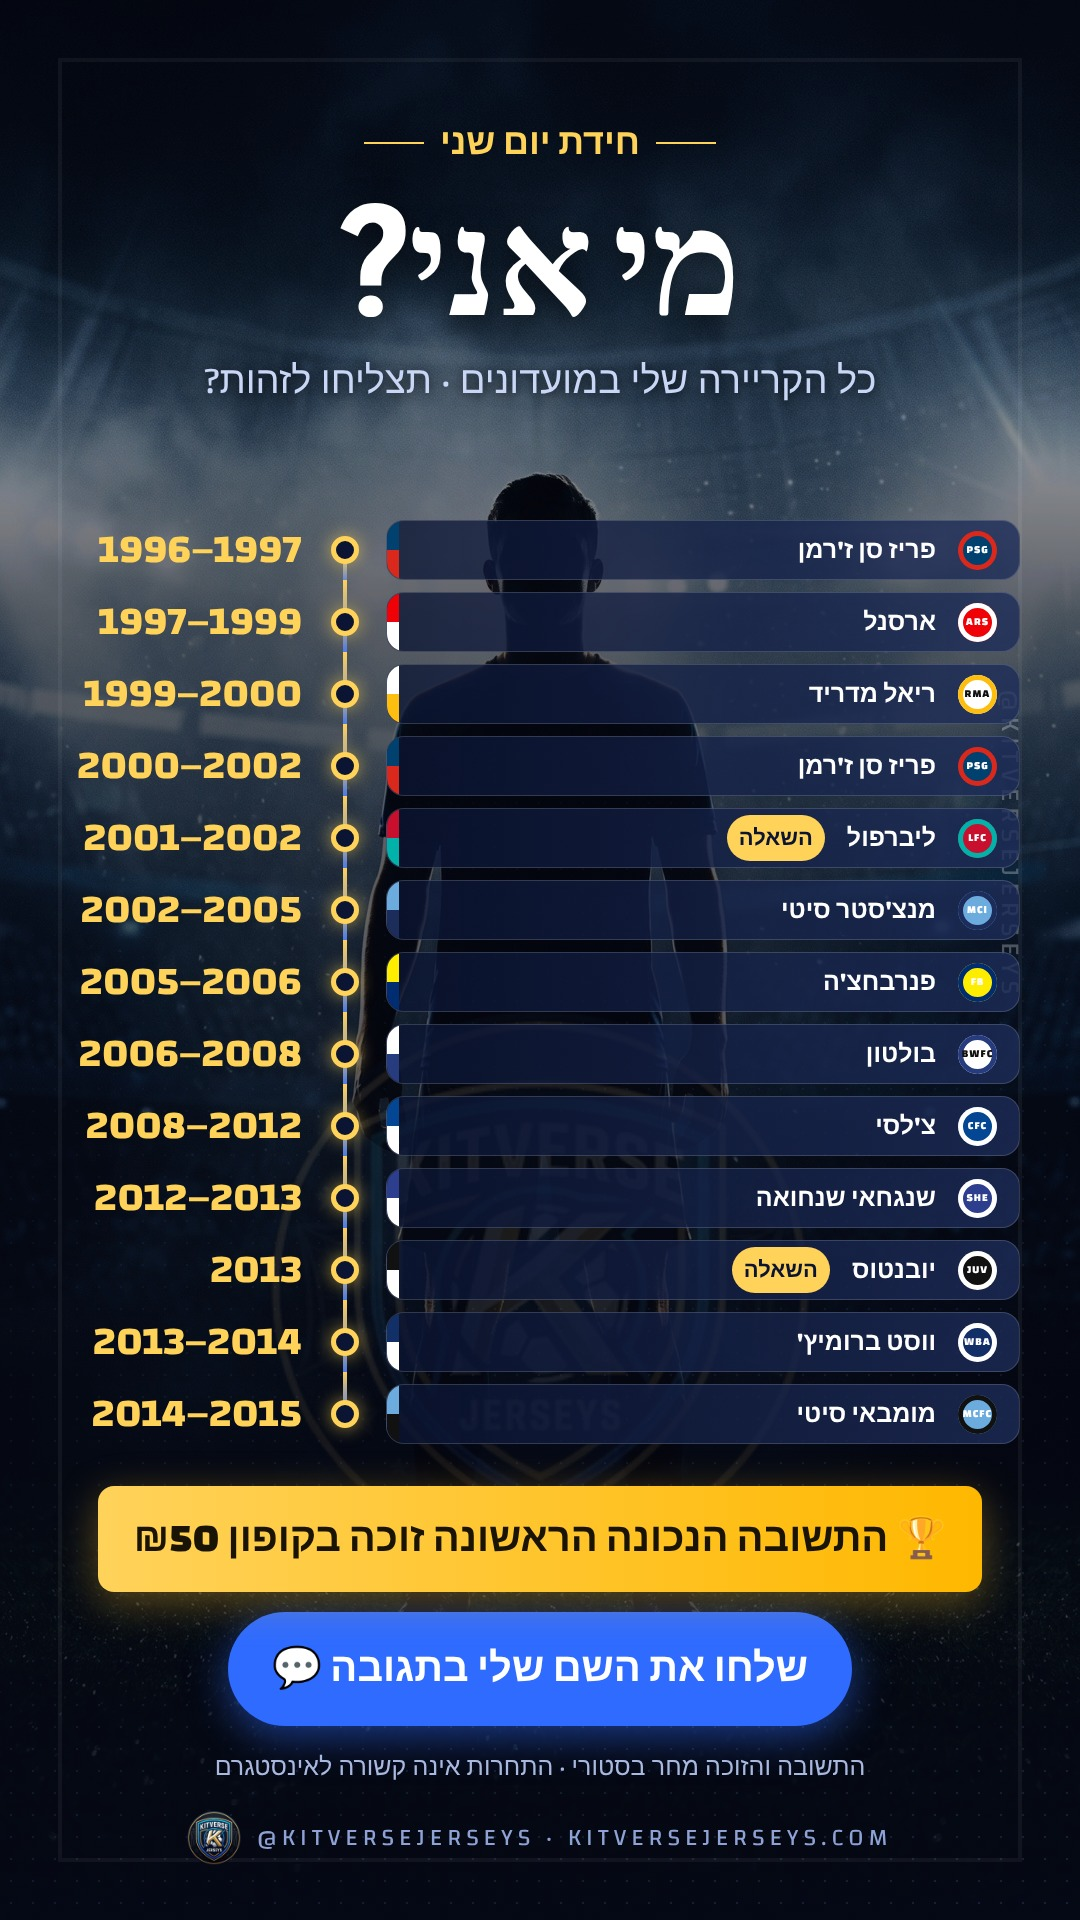
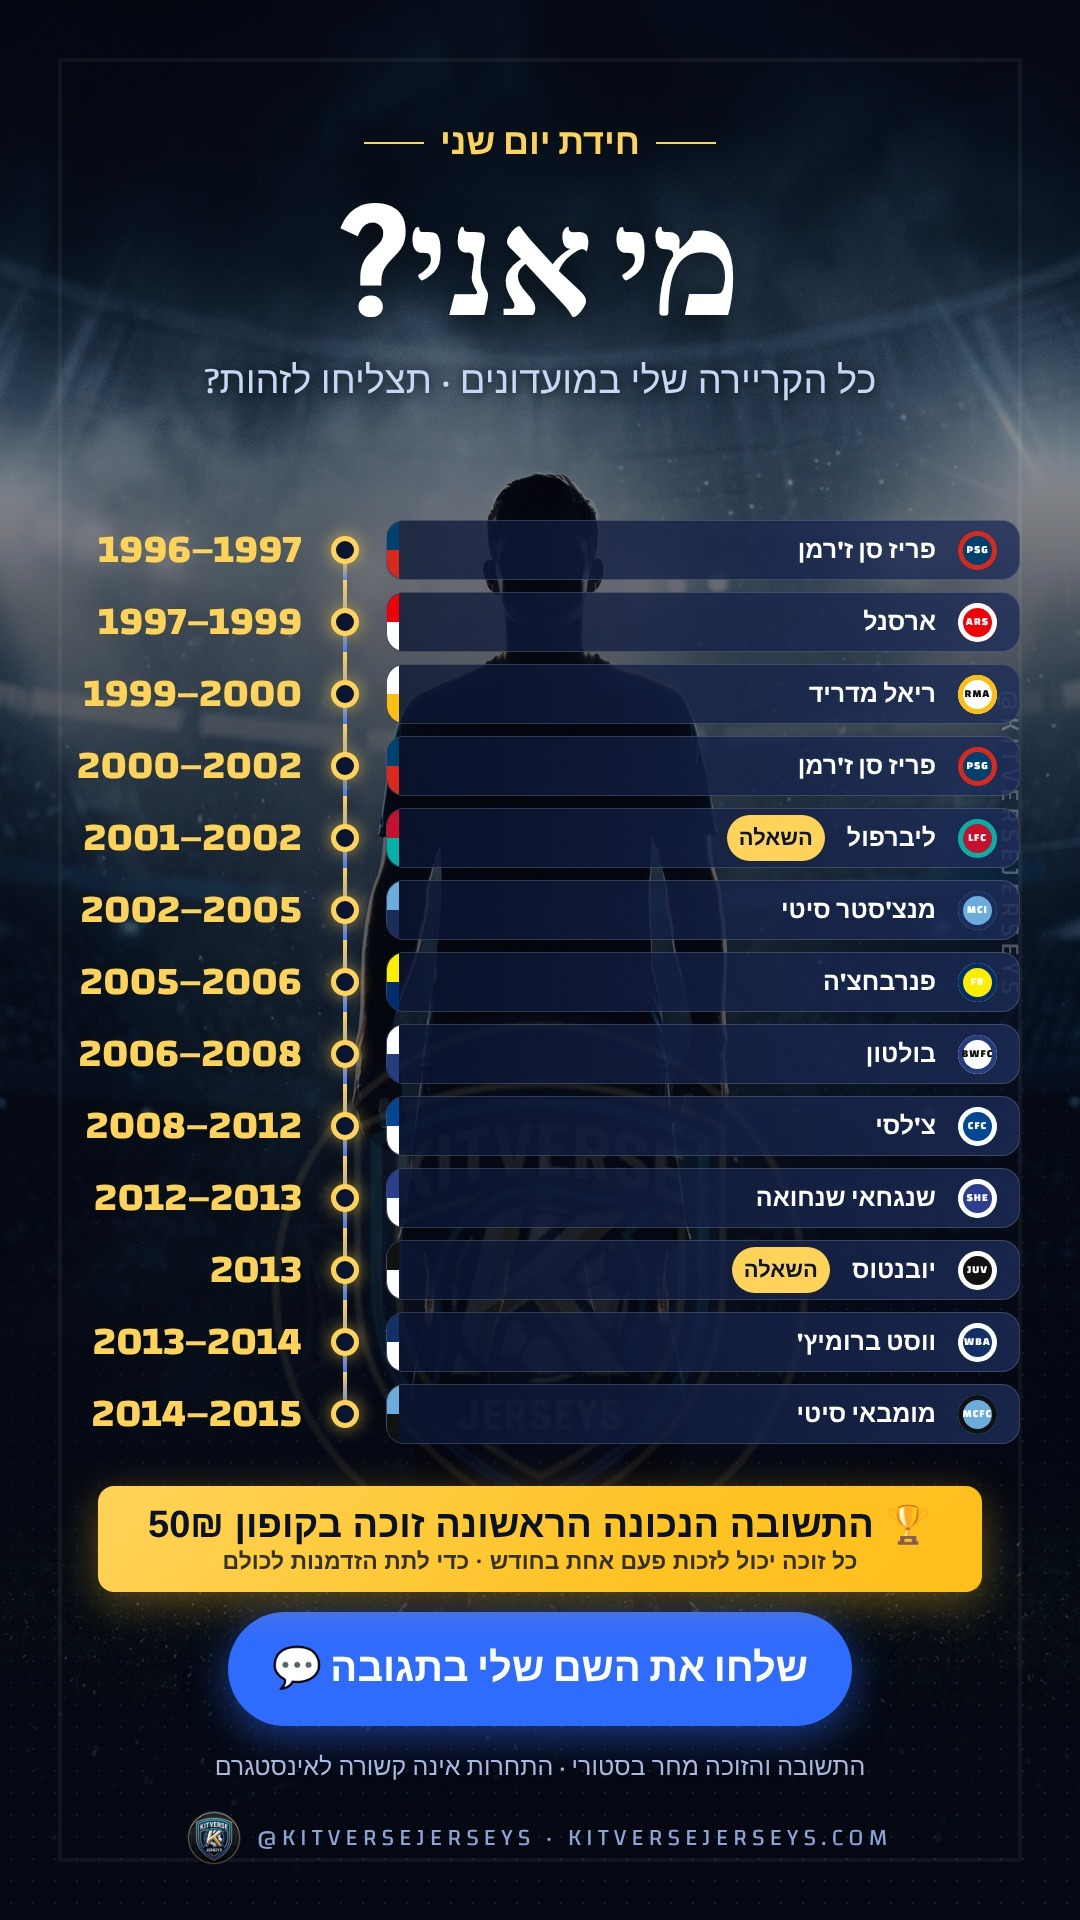
Monday riddle: 'each winner can win once a month' line on every riddle image (AR + HE, 23 Nov - 21 Dec); tonight's riddle (Crespo) posts now instead of 19:00 (owner 2026-11-23)
Claude-Session: https://claude.ai/code/session_01Du4fds4LijxGgBnY1Wn1TW

Changed region(s): [[0.1222, 0.75, 0.9167, 0.8438]]

diff --git a/docs/instagram.md b/docs/instagram.md
@@ -7,7 +7,7 @@ DM bot flow, Inngest jobs, Instagram autopost / riddle / polls, messaging rules.
   - one turn per chat burst (5s debounce, shows "seen" + typing while it works, concurrency 1 per chat);
   - 3h follow-up nudge, approval decided/reminder, spend alert;
   - IG post sync every 15 min.
-  - Instagram autopost every 5 min (owner request 2026-11-13): publishes the posts/stories in `src/data/ig-schedule.json` (images in `public/campaign/daily/`, Arabic captions) through the Content Publishing API - `src/lib/channels/ig-publish.ts`; once per item via the `bot_settings` row `ig_post:<id>` (failed = owner alert, no auto-retry; delete the row to retry), items >3h late are skipped, pause with `bot_settings` `ig_autopost` = {"paused":true}. Needs the token's `instagram_business_content_publish` permission. After deploying a schedule change, re-sync Inngest from the live domain (`PUT https://www.kitversejerseys.com/api/inngest`, e.g. `fetch` in a browser on the site) - on 2026-11-14 the cron kept running an older deploy's schedule until that sync ("modified": true). Poll stories (owner request 2026-11-14): Instagram's API can't add stickers (polls) to a story, so a schedule item with `poll` {question, options} (the VS stories) is NOT auto-posted - at its time the owner gets a push alert to admin **Instagram -> Poll stories** (`/admin/stories`): save picture, copy question/answers, "Open Instagram", then "I posted it"/"Skip" (`markPollStory`, row status `owner_poll` -> `posted_by_owner`/`skipped`). The schedule (and polls) is generated by the campaign scripts (`daily.py`, scratch), not hand-edited. **Owner decision later the same day: "just post them as is"** - no schedule item has `poll` now (VS stories auto-post, their line reads "reply to the story 💬" instead of "vote 👇"), and the Poll stories nav entry is removed; the page/code stays dormant for future use (add `poll` to an item to bring it back). **Monday riddle** (owner request 2026-11-14): every Monday 19:00 a "مين أنا؟" story (a famous player's full career as a timeline; club colours + initials, never real crests - owner asked for real crests, declined as trademark; background = anonymous generated silhouette, never a real player's photo; KitVerse badge watermark), answer story Tuesday 19:00; first one posted Sat 14 Nov 18:15 (Zlatan, answer Sun 15 Nov), then Mondays 16 Nov - 21 Dec, made harder on owner request ("too easy") - no position hint, less obvious careers: Owen, Crespo, Seedorf, Forlán, Anelka, Eto'o (careers from Wikipedia 2026-11-14); codes are used in date order (RIDDLE1611 for the 14 Nov riddle, etc.), RIDDLE2812 spare. Prize: first correct DM reply wins a single-use ₪50 code (min order ₪100, 31 days, not combinable) pre-created per Monday as `RIDDLE<DDMM>-xxxx` in discount_codes - the owner picks the winner in the Instagram app and DMs the code. Single-use codes (max_uses set) never become the site banner (`export-store-catalog.ts`). Images `public/campaign/riddle/` (AR auto-posted, HE for the owner); generator `riddle.py` (scratch).
+  - Instagram autopost every 5 min (owner request 2026-11-13): publishes the posts/stories in `src/data/ig-schedule.json` (images in `public/campaign/daily/`, Arabic captions) through the Content Publishing API - `src/lib/channels/ig-publish.ts`; once per item via the `bot_settings` row `ig_post:<id>` (failed = owner alert, no auto-retry; delete the row to retry), items >3h late are skipped, pause with `bot_settings` `ig_autopost` = {"paused":true}. Needs the token's `instagram_business_content_publish` permission. After deploying a schedule change, re-sync Inngest from the live domain (`PUT https://www.kitversejerseys.com/api/inngest`, e.g. `fetch` in a browser on the site) - on 2026-11-14 the cron kept running an older deploy's schedule until that sync ("modified": true). Poll stories (owner request 2026-11-14): Instagram's API can't add stickers (polls) to a story, so a schedule item with `poll` {question, options} (the VS stories) is NOT auto-posted - at its time the owner gets a push alert to admin **Instagram -> Poll stories** (`/admin/stories`): save picture, copy question/answers, "Open Instagram", then "I posted it"/"Skip" (`markPollStory`, row status `owner_poll` -> `posted_by_owner`/`skipped`). The schedule (and polls) is generated by the campaign scripts (`daily.py`, scratch), not hand-edited. **Owner decision later the same day: "just post them as is"** - no schedule item has `poll` now (VS stories auto-post, their line reads "reply to the story 💬" instead of "vote 👇"), and the Poll stories nav entry is removed; the page/code stays dormant for future use (add `poll` to an item to bring it back). **Monday riddle** (owner request 2026-11-14): every Monday 19:00 a "مين أنا؟" story (a famous player's full career as a timeline; club colours + initials, never real crests - owner asked for real crests, declined as trademark; background = anonymous generated silhouette, never a real player's photo; KitVerse badge watermark), answer story Tuesday 19:00; first one posted Sat 14 Nov 18:15 (Zlatan, answer Sun 15 Nov), then Mondays 16 Nov - 21 Dec, made harder on owner request ("too easy") - no position hint, less obvious careers: Owen, Crespo, Seedorf, Forlán, Anelka, Eto'o (careers from Wikipedia 2026-11-14); codes are used in date order (RIDDLE1611 for the 14 Nov riddle, etc.), RIDDLE2812 spare. Prize (each person can win at most once a month - owner 2026-11-23, printed on every riddle image under the coupon line; the owner skips repeat winners when picking): first correct DM reply wins a single-use ₪50 code (min order ₪100, 31 days, not combinable) pre-created per Monday as `RIDDLE<DDMM>-xxxx` in discount_codes - the owner picks the winner in the Instagram app and DMs the code. Single-use codes (max_uses set) never become the site banner (`export-store-catalog.ts`). Images `public/campaign/riddle/` (AR auto-posted, HE for the owner); generator `riddle.py` (scratch).
 
 ## Messaging customers
 - Meta Graph API for Instagram. The system only ever messages customers on Instagram (no automated WhatsApp/Telegram to customers). Exception the OWNER sends himself (owner request 2026-11-14): the admin order page's "Message on WhatsApp" card (`src/app/admin/(app)/orders/[id]/whatsapp-card.tsx`, text from `src/lib/orders/whatsapp-text.ts`, tested) builds a thanks+tracking / being packed / out for delivery / delivered message (first name, order number, the customer's `/o` link, estimated arrival dates, cash-on-delivery amount) and opens it with a wa.me link in his own WhatsApp Business - he presses Send; nothing is sent by the server. Language: Hebrew if the name is written in Hebrew letters, else Arabic (`waLangFor`; switchable on the card). The link carries the same language (`/o/<token>?l=ar|he|en`): the customer order page `/o/[token]` is now in Arabic, Hebrew or English (`src/app/o/[token]/strings.ts`; without `?l` it uses the language the buyer checked out in, `customers.preferred_language`). Never the carrier or its tracking number. Owner alerts come from the admin (in-app and web push, `public/sw.js`), plus the optional WhatsApp order alert to the owner's own number (see below).
